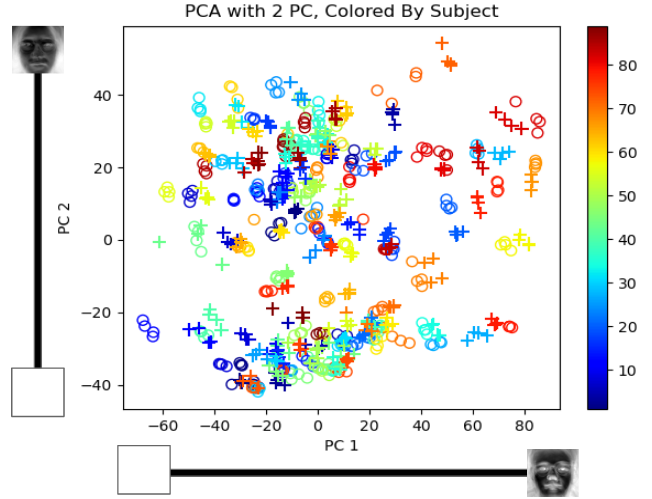
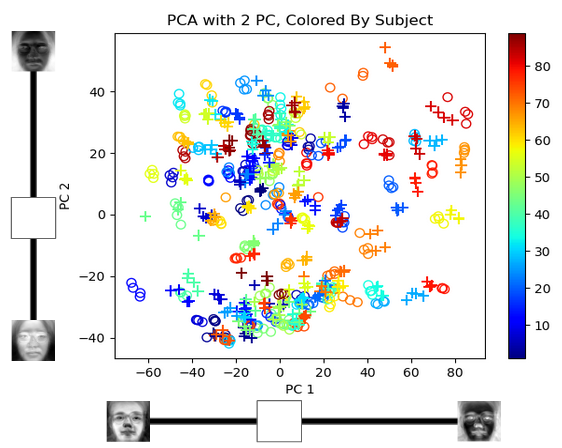
rebuilding site Fri 24 Sep 2021 10:29:02 PM EDT

Changed region(s): [[0.0, 0.0, 0.9982, 1.0]]

diff --git a/index.html b/index.html
@@ -254,7 +254,7 @@ I use this blog to document my software projects, share my data analysis adventu
 
 
 
-<img src="http://GatiAher.github.io/projects/facial-recognition-using-principal-component-analysis/2D_visualization_hue90ce701dc667fd3b7f40f796ee813ba_136824_600x0_resize_box_2.png" />
+<img src="http://GatiAher.github.io/projects/facial-recognition-using-principal-component-analysis/2D_visualization_hu2702514d88a734ce02365bca9deb5ae7_144071_600x0_resize_box_2.png" />
 
 
 

diff --git a/projects/facial-recognition-using-principal-component-analysis/index.html b/projects/facial-recognition-using-principal-component-analysis/index.html
@@ -91,7 +91,7 @@
     
     
     
-    <img src="http://GatiAher.github.io/projects/facial-recognition-using-principal-component-analysis/2D_visualization_hue90ce701dc667fd3b7f40f796ee813ba_136824_04c2379ca378dfe67a93d2a9d2923128.png" />
+    <img src="http://GatiAher.github.io/projects/facial-recognition-using-principal-component-analysis/2D_visualization_hu2702514d88a734ce02365bca9deb5ae7_144071_9d7192bbffaf30cac7bcc61ecdacb7b7.png" />
     
     
     

diff --git a/categories/data-analysis/index.html b/categories/data-analysis/index.html
@@ -100,7 +100,7 @@
 
 
 
-<img src="http://GatiAher.github.io/projects/facial-recognition-using-principal-component-analysis/2D_visualization_hue90ce701dc667fd3b7f40f796ee813ba_136824_600x0_resize_box_2.png" />
+<img src="http://GatiAher.github.io/projects/facial-recognition-using-principal-component-analysis/2D_visualization_hu2702514d88a734ce02365bca9deb5ae7_144071_600x0_resize_box_2.png" />
 
 
 

diff --git a/projects/index.html b/projects/index.html
@@ -243,7 +243,7 @@
 
 
 
-<img src="http://GatiAher.github.io/projects/facial-recognition-using-principal-component-analysis/2D_visualization_hue90ce701dc667fd3b7f40f796ee813ba_136824_600x0_resize_box_2.png" />
+<img src="http://GatiAher.github.io/projects/facial-recognition-using-principal-component-analysis/2D_visualization_hu2702514d88a734ce02365bca9deb5ae7_144071_600x0_resize_box_2.png" />
 
 
 

diff --git a/tags/olin-college-quantitative-engineering-analysis/index.html b/tags/olin-college-quantitative-engineering-analysis/index.html
@@ -100,7 +100,7 @@
 
 
 
-<img src="http://GatiAher.github.io/projects/facial-recognition-using-principal-component-analysis/2D_visualization_hue90ce701dc667fd3b7f40f796ee813ba_136824_600x0_resize_box_2.png" />
+<img src="http://GatiAher.github.io/projects/facial-recognition-using-principal-component-analysis/2D_visualization_hu2702514d88a734ce02365bca9deb5ae7_144071_600x0_resize_box_2.png" />
 
 
 

diff --git a/tags/olin-microbiology-lab-undergraduate-research/index.html b/tags/olin-microbiology-lab-undergraduate-research/index.html
@@ -100,7 +100,7 @@
 
 
 
-<img src="http://GatiAher.github.io/projects/facial-recognition-using-principal-component-analysis/2D_visualization_hue90ce701dc667fd3b7f40f796ee813ba_136824_600x0_resize_box_2.png" />
+<img src="http://GatiAher.github.io/projects/facial-recognition-using-principal-component-analysis/2D_visualization_hu2702514d88a734ce02365bca9deb5ae7_144071_600x0_resize_box_2.png" />
 
 
 

diff --git a/tags/łódź-university-mathup-conference-sp2021/index.html b/tags/łódź-university-mathup-conference-sp2021/index.html
@@ -100,7 +100,7 @@
 
 
 
-<img src="http://GatiAher.github.io/projects/facial-recognition-using-principal-component-analysis/2D_visualization_hue90ce701dc667fd3b7f40f796ee813ba_136824_600x0_resize_box_2.png" />
+<img src="http://GatiAher.github.io/projects/facial-recognition-using-principal-component-analysis/2D_visualization_hu2702514d88a734ce02365bca9deb5ae7_144071_600x0_resize_box_2.png" />
 
 
 
